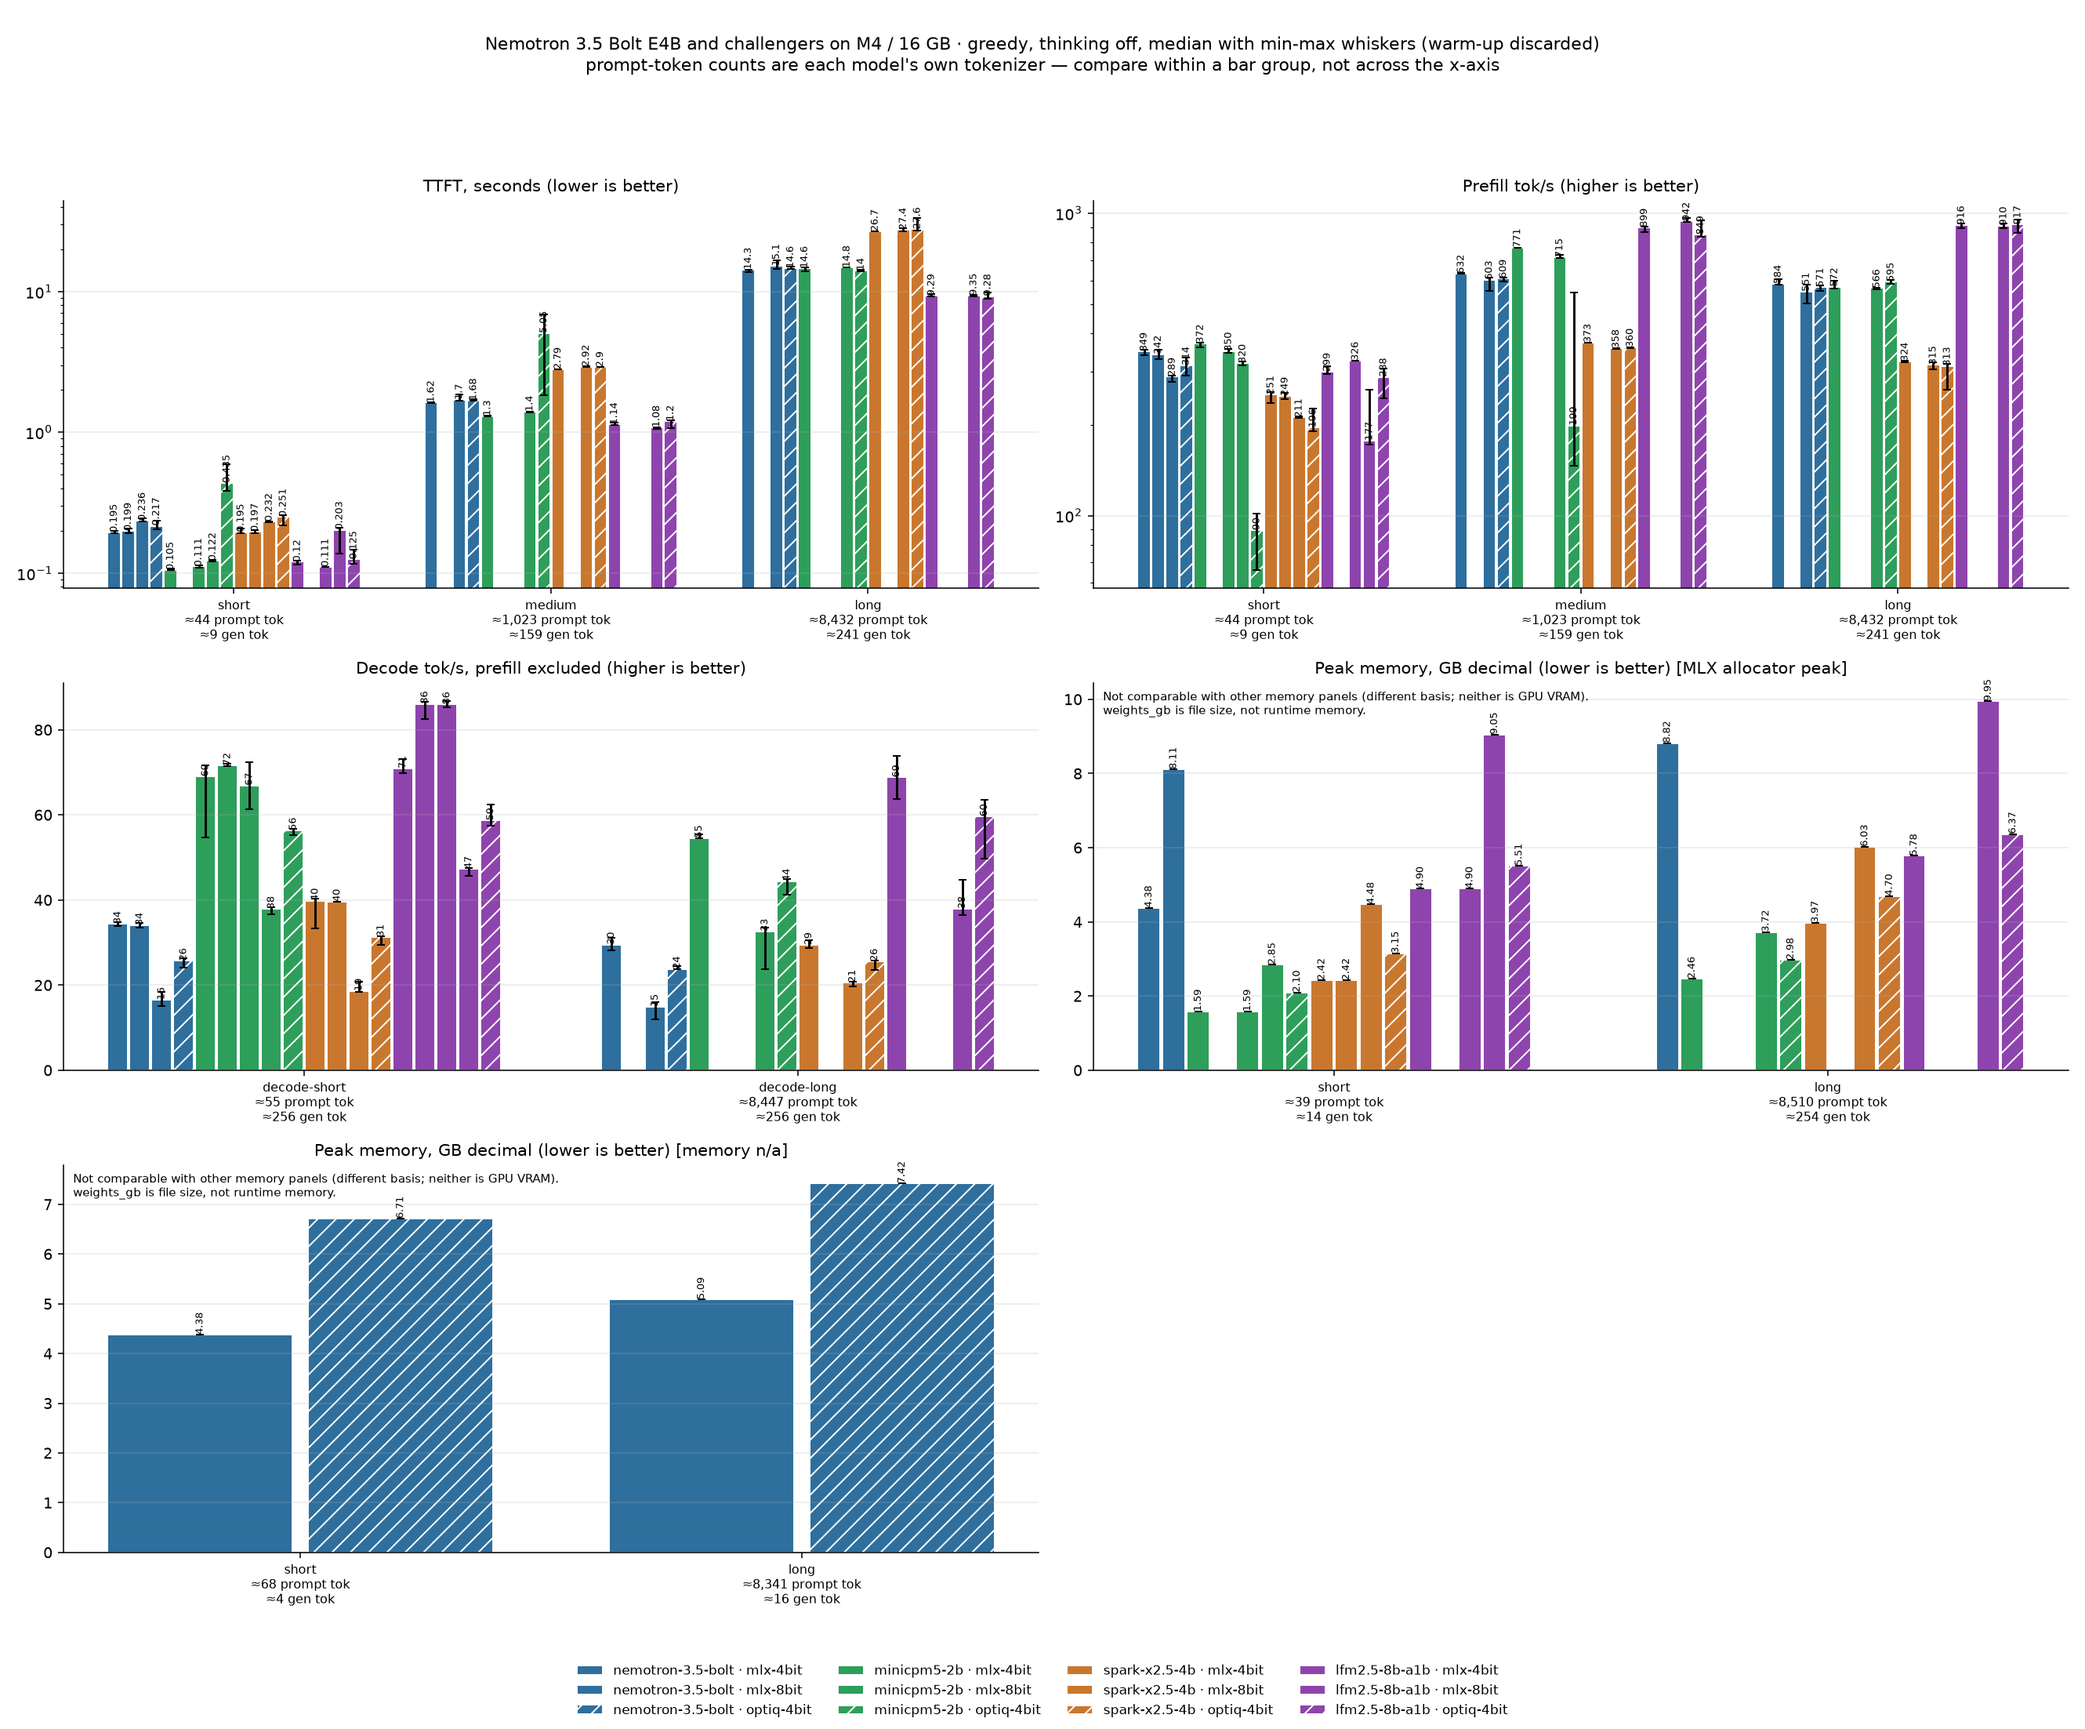
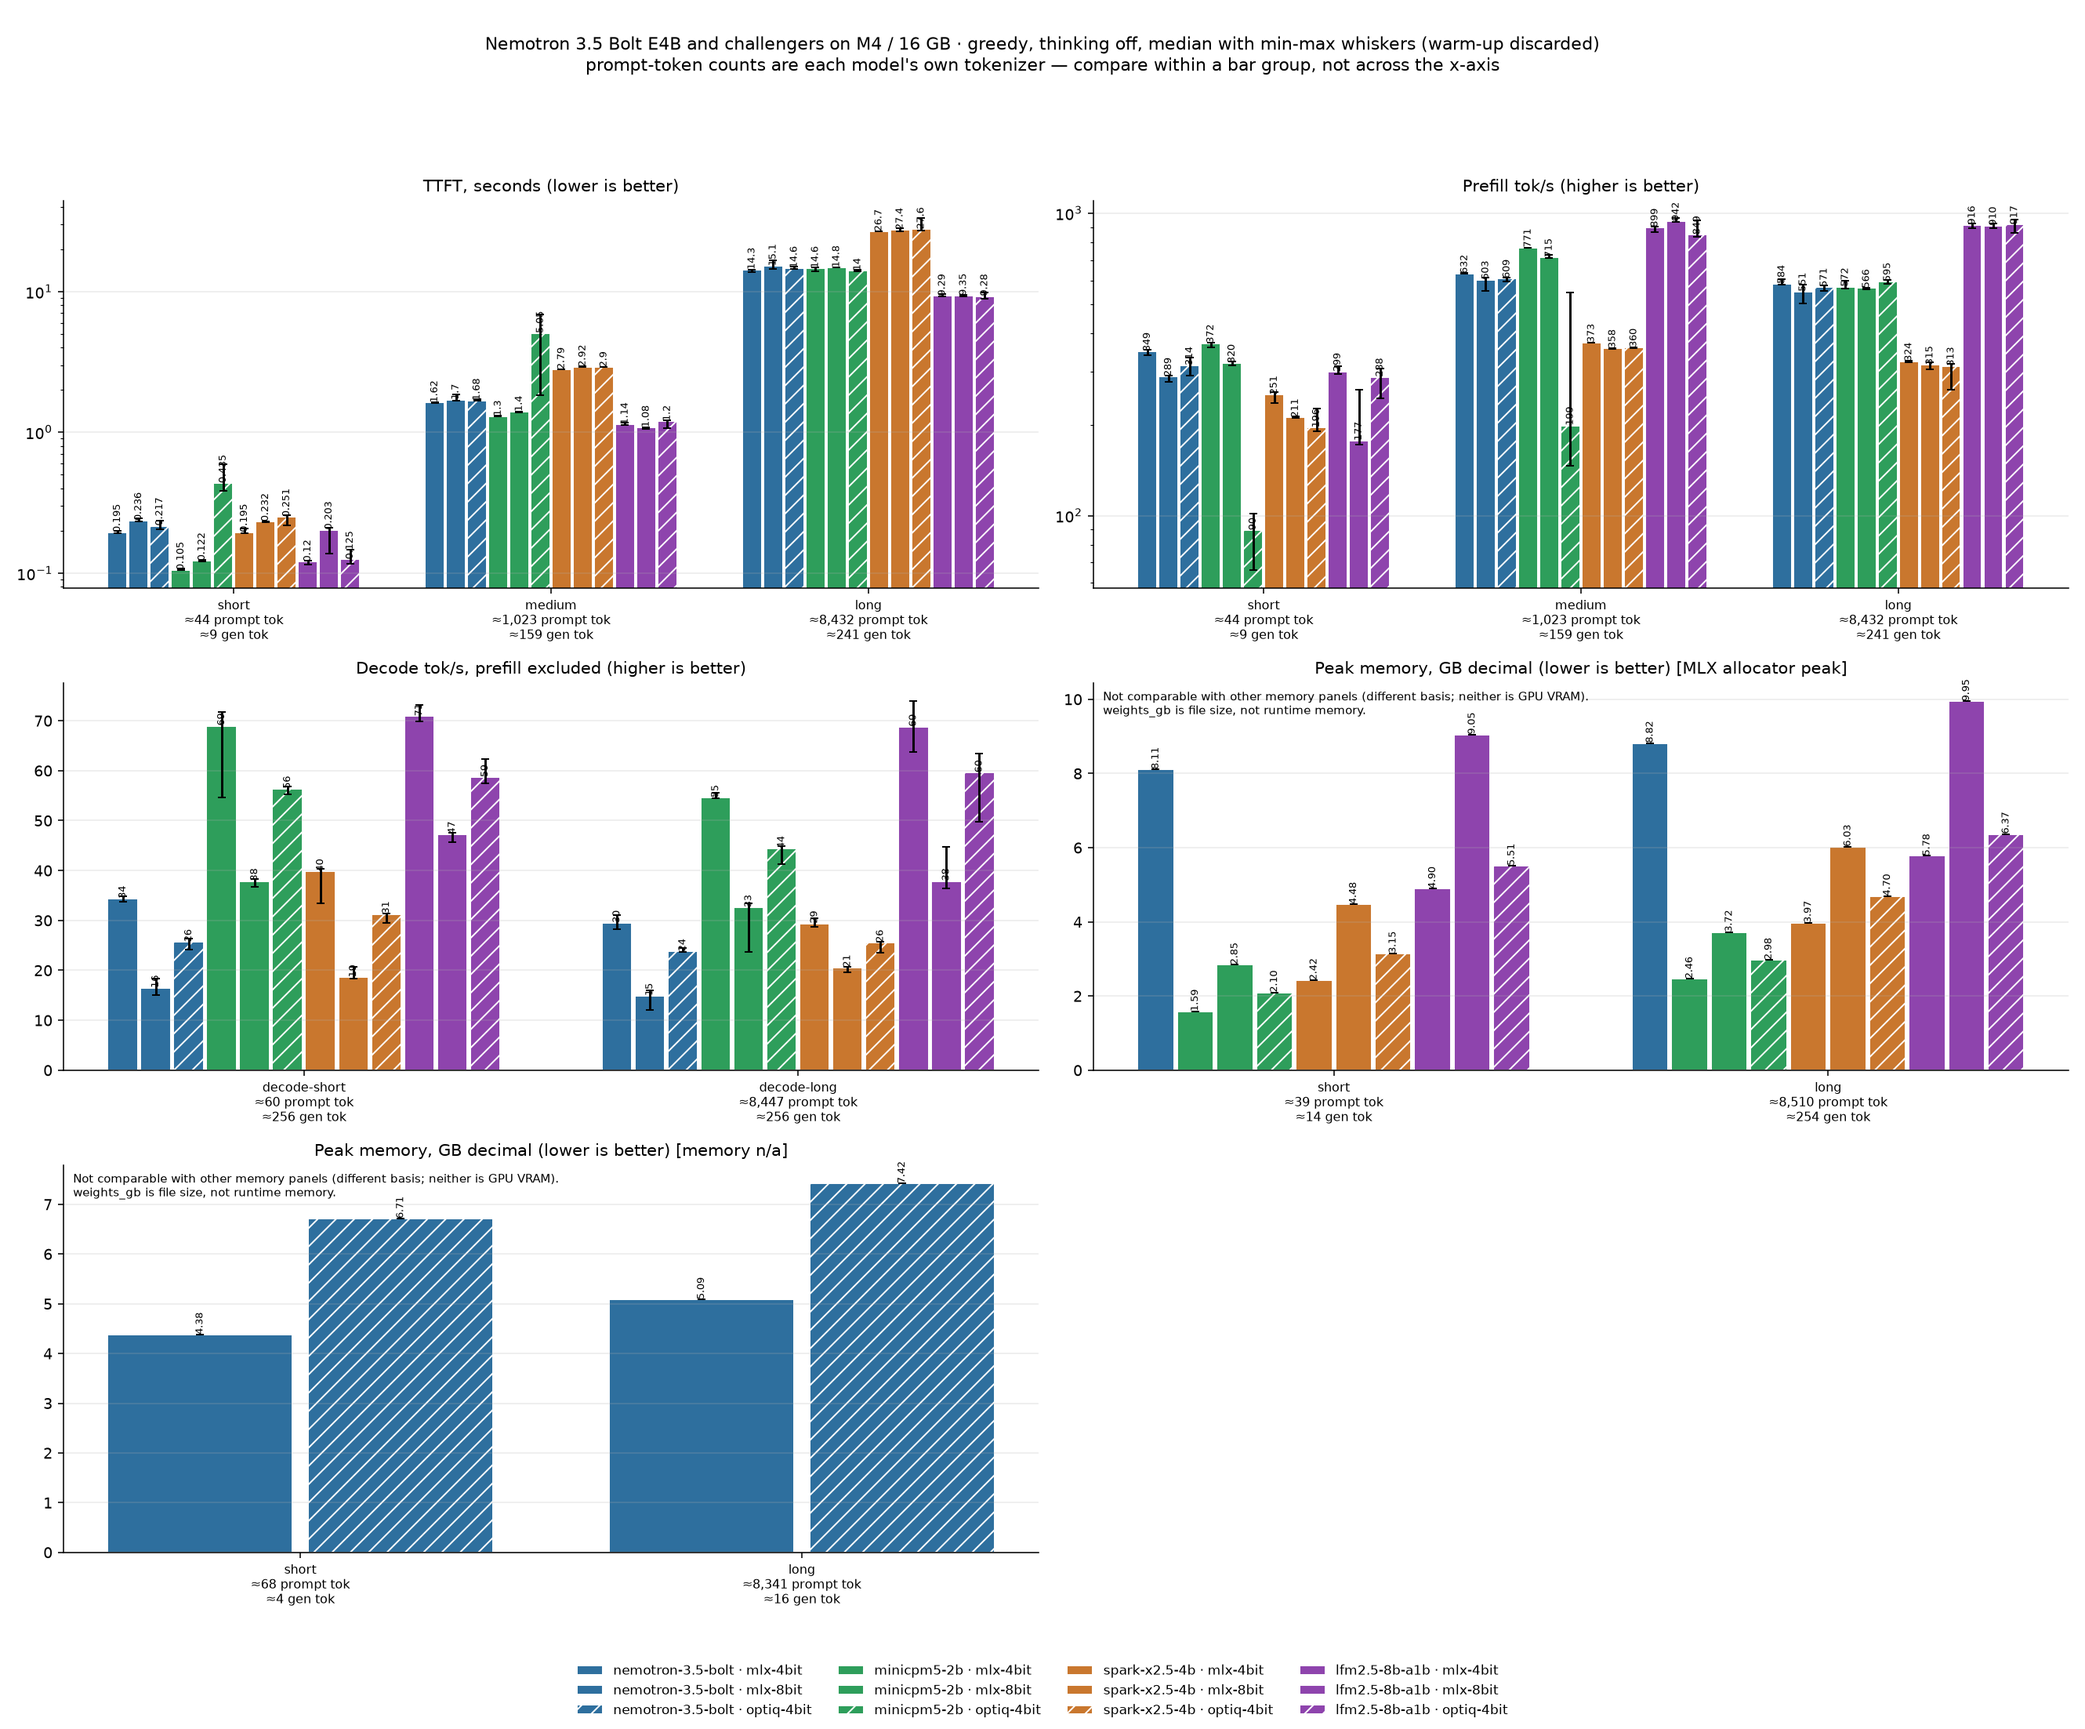
fix: exclude repeat runs from matrix chart

diff --git a/visualize_p2.py b/visualize_p2.py
@@ -64,6 +64,10 @@ def discover(models, include_http, results_dir):
         if not ckpt:
             ckpt = next((t for t in tags if name.startswith(t + "-")), name.split("-")[0])
         rest = name[len(ckpt) + 1:] if name.startswith(ckpt + "-") else ""
+        # Keep separately tagged repeats out of the matrix chart; compare.py
+        # reports those in their own table, never as replacement matrix rows.
+        if rest not in {"inproc", "in-process", "http", "http-cached"}:
+            continue
         cached = rest.endswith("cached")
         transport = s.get("transport") or rest.replace("-cached", "") or "inproc"
         if transport == "http" and not include_http:
